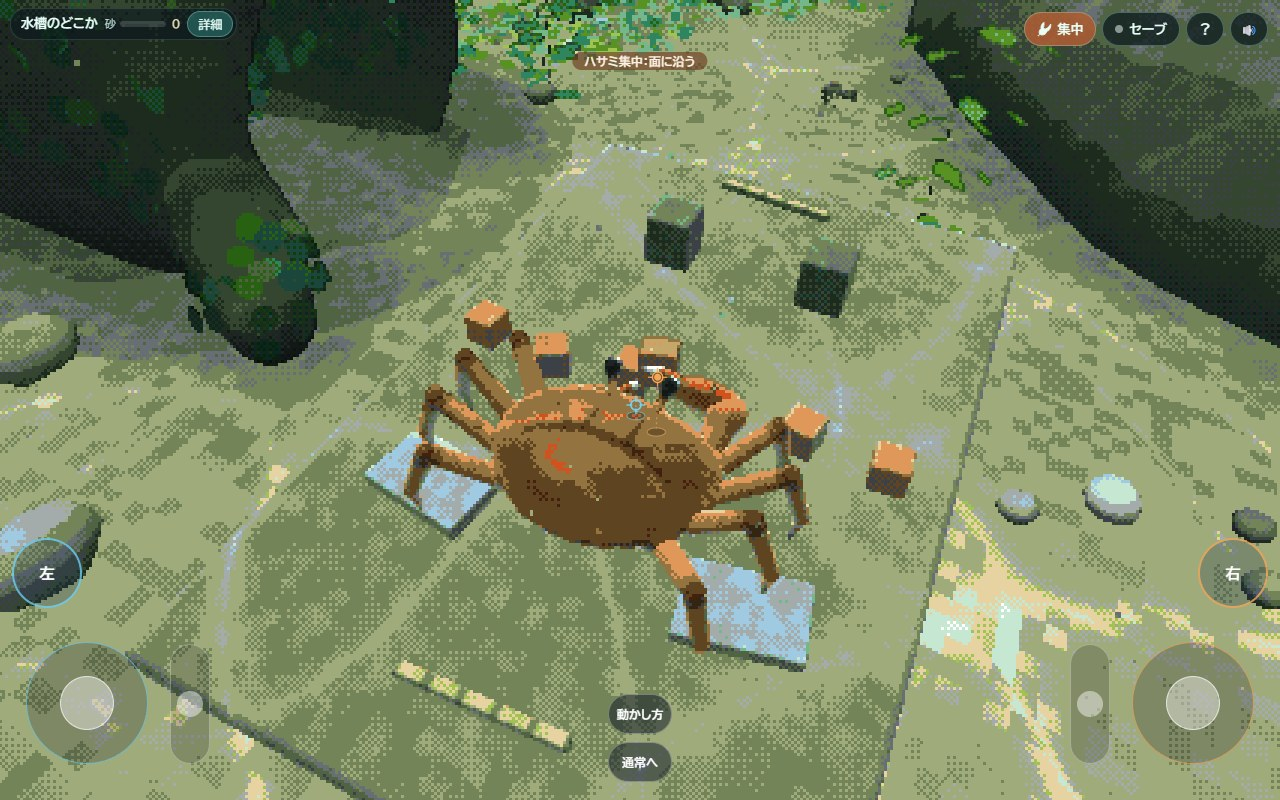
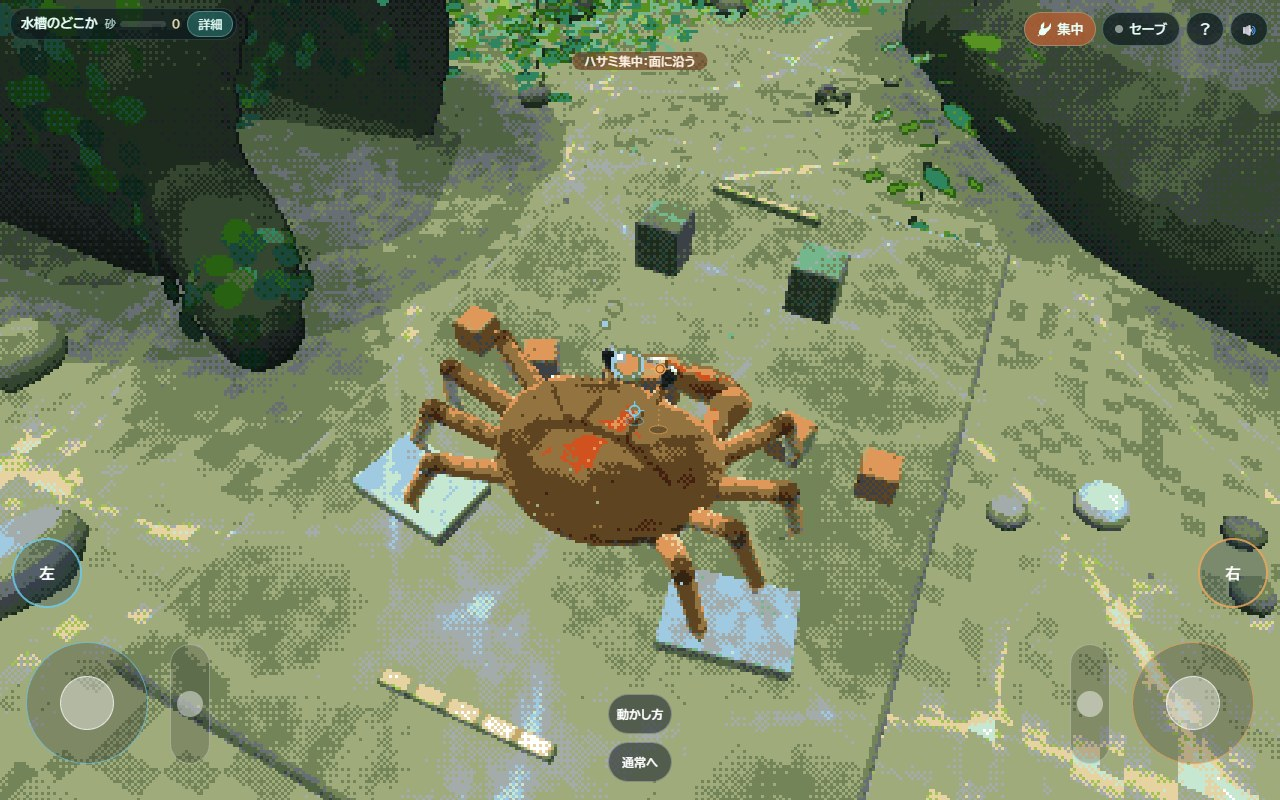
集中モード：自動で越えるのは地形の段だけ（積み木は押す・挟む）・カニが寄るときに積み木の列を体で押さない（横向きの分で寄る・平たい石は乗れる）・検証の更新

diff --git a/src/aquarium/main.ts b/src/aquarium/main.ts
@@ -1506,13 +1506,27 @@ async function boot() {
       // 切り替えた直後の移動の基準：倒したままなら前の視点の向き（離す・大きく倒し直すまで）
       // 集中モード：カニはその場に留まる（移動・走る・跳ぶ・掘るは使わない。物の反作用・水流では少し動く）
       // （腕を伸ばしきっても届かない向きへは、ゆっくり寄る：AquaClawFocus.bodyMove。世界の向き → スティックの向き）
-      const bm = focus.bodyMove, bml = Math.hypot(bm[0], bm[1]), cyaw = camera.yaw;
+      let bm: readonly number[] = focus.bodyMove, bml = Math.hypot(bm[0], bm[1]);
+      const cyaw = camera.yaw;
       // （寄る先に物・箱・岩があれば寄らない：積んだ物へ体をぶつけて崩さない）
       // （今いる所より近くに面がある＝寄る先に何か立っている。乗っている床・石の床そのものは止めない：体の中心から床までは
       //   ちょうど体の半径なので、半径との比べだけでは、石の床の上では一度も寄れなかった）
       const here = bml > 1e-4 ? world.contactSolid(crab.x, crab.y + crab.radius, crab.z) : 1;
-      const ahead = bml > 1e-4 ? world.contactSolid(crab.x + (bm[0] / bml) * 0.14, crab.y + crab.radius, crab.z + (bm[1] / bml) * 0.14) : 1;
-      const shuffle = inFocus && bml > 0.03 && ahead > Math.min(crab.radius + 0.03, here - 0.02);
+      // （動かせる箱は、体の球を寄る向きへ 8 cm 進めた所で測る：下の地形の測り方は体の中心の高さ・14 cm 先なので、低い積み木の列を
+      //   見落として、体で押しのけていた）
+      const clear = (dx: number, dz: number, l: number) =>
+        world.contactSolid(crab.x + (dx / l) * 0.14, crab.y + crab.radius, crab.z + (dz / l) * 0.14) > Math.min(crab.radius + 0.03, here - 0.02) &&
+        props.movableDist(crab.x + (dx / l) * 0.08, crab.y + crab.radius, crab.z + (dz / l) * 0.08, crab.y + 0.06) > crab.radius + 0.03;
+      let shuffle = inFocus && bml > 0.03 && clear(bm[0], bm[1], bml);
+      // 寄る向きに物があれば、体の横向き（カニは横へ歩く）の分だけで寄る（前の積み木の列に体を当てずに、横の物へ腕を届かせる）
+      if (inFocus && bml > 0.03 && !shuffle) {
+        const sx = -Math.cos(crab.heading), sz = Math.sin(crab.heading), d = bm[0] * sx + bm[1] * sz;
+        if (Math.abs(d) > 0.03 && clear(sx * d, sz * d, Math.abs(d))) {
+          bm = [sx * d, sz * d];
+          bml = Math.abs(d);
+          shuffle = true;
+        }
+      }
       const mv = !inFocus ? input.moveAxis() : shuffle ? { x: bm[0] * Math.cos(cyaw) - bm[1] * Math.sin(cyaw), y: -bm[0] * Math.sin(cyaw) - bm[1] * Math.cos(cyaw) } : { x: 0, y: 0 };
       if (moveLatch && (Math.hypot(mv.x, mv.y) < 0.2 || Math.abs(Math.atan2(Math.sin(Math.atan2(mv.x, mv.y) - moveLatch.ang), Math.cos(Math.atan2(mv.x, mv.y) - moveLatch.ang))) > 1.0)) moveLatch = null;
       // 鋏が挟む方に使われている間は掘れない（掘るのも鋏を使うので）

diff --git a/src/aquarium/AquaGrab.ts b/src/aquarium/AquaGrab.ts
@@ -443,6 +443,25 @@ export class PropSystem {
   }
 
   /** 箱（積み木）までの距離（AquariumWorld.contactSolid が使う：カニ・小石・生き物が箱に乗る・ぶつかる）。exclude の箱は除く */
+  /**
+   * 動かせる箱だけへの距離（石の床は数えない）。ハサミ集中モードでカニが寄る先に積み木があるか。
+   * 上面が minTop より低い箱（平たい石・寝た棒：カニは上に乗る・またぐ。体で横から押さない）は数えない
+   */
+  movableDist(x: number, y: number, z: number, minTop = -Infinity): number {
+    let d = 1e3;
+    for (const b of this.boxes) {
+      if (b.fixed) continue;
+      const [qx, qy, qz, qw] = b.q;
+      const ext = Math.abs(2 * (qx * qy + qz * qw)) * b.semi[0] + Math.abs(1 - 2 * (qx * qx + qz * qz)) * b.semi[1] + Math.abs(2 * (qy * qz - qx * qw)) * b.semi[2];
+      if (b.p[1] + ext < minTop) continue;
+      const dx = x - b.p[0], dy = y - b.p[1], dz = z - b.p[2];
+      if (Math.hypot(dx, dy, dz) - b.rb * 1.75 > d) continue;
+      const l = qinv(b.q, dx, dy, dz, this.tmpL);
+      d = Math.min(d, boxSd(b.semi, l[0], l[1], l[2]));
+    }
+    return d;
+  }
+
   dist(x: number, y: number, z: number): number {
     if (x < this.bmin[0] - 0.5 || x > this.bmax[0] + 0.5 || y < this.bmin[1] - 0.5 || y > this.bmax[1] + 0.5 || z < this.bmin[2] - 0.5 || z > this.bmax[2] + 0.5) return 1e3;
     let d = 1e3;
@@ -490,6 +509,11 @@ export class PropSystem {
   }
 
   /** 真下へ探った最初の上面（地形・箱。skip の箱は除く：挟んでいる箱の上へ鋏が上っていかない） */
+  /** 地形（と動かない箱：石の床）だけの面の高さ。動かせる箱は数えない（ハサミ集中モードの段を越える判定） */
+  terrainBelow(x: number, yFrom: number, z: number): number {
+    return this.surfaceBelow(x, yFrom, z, this.boxes.filter((b) => !b.fixed));
+  }
+
   surfaceBelow(x: number, yFrom: number, z: number, skip: readonly (Prop | null)[]): number {
     const sk = skip.filter((p): p is Prop => !!p && p.box);
     const f = (py: number) => {

diff --git a/docs/aquarium/tools/claw_scheme_compare.js b/docs/aquarium/tools/claw_scheme_compare.js
@@ -52,7 +52,7 @@
    */
   const go = (s, x, z, o = {}) => {
     const T = S(s);
-    let f = 0, still = 0, last = [...T.p];
+    let f = 0, still = 0, boost = 0, best = Infinity;
     for (; f < (o.max ?? 400); f++) {
       const dx = x - T.p[0], dz = z - T.p[2], d = Math.hypot(dx, dz);
       let wantY = o.y;
@@ -72,6 +72,16 @@
       const k = Math.min(1, dl / 0.05) / m;
       const c = { mx: inp.mx * k, my: inp.my * k, lift: inp.lift * k };
       for (const key of ['mx', 'my', 'lift']) if (Math.abs(c[key]) < 0.04) c[key] = 0;
+      // 面に沿う：動かせる物（積み木など）の横で止まったら、人は高さを上げて越える（自動で越えるのは地形の段だけ）。
+      // 止まって 8 フレームで 0.5 秒上げる
+      if (F.scheme === 'surface' && o.y === undefined && still >= 8 && d > 1e-4 && floorAt(s, T.p[0] + (dx / d) * 0.03, T.p[1], T.p[2] + (dz / d) * 0.03) > T.floor + 0.02) boost = 30;
+      if (boost > 0) {
+        boost--;
+        c.lift = 1;
+      } else if (F.scheme === 'surface' && o.y === undefined && T.lift > 0.03 && still === 0) {
+        // （越えた後は、上げた分を下げて戻す：人も物を越えたら下げる）
+        c.lift = -1;
+      }
       X.ctl(s, c);
       X.run(1);
       // 記録
@@ -79,9 +89,12 @@
       stat.frames++;
       if (n >= 2) stat.axes2++;
       if (n >= 3) stat.axes3++;
-      const moved = Math.hypot(T.p[0] - last[0], T.p[1] - last[1], T.p[2] - last[2]);
-      last = [...T.p];
-      still = moved < 0.0003 && dl > 0.02 ? still + 1 : 0;
+      // 止まった = 行き先へ 0.5 mm も近づかないフレームが続く（物の面に沿って横へ少しずつ滑るのも止まった扱い）
+      const dNow = Math.hypot(x - T.p[0], z - T.p[2]);
+      if (dNow < best - 0.0005) {
+        best = dNow;
+        still = 0;
+      } else if (dl > 0.02) still++;
       if (still === 10) stat.stalls++;
       if (o.y === undefined && !G(s).holding) {
         // 鋏の先の、真下の面からの高さ（低すぎ = 当たる・高すぎ = 狙いにくい）

diff --git a/src/aquarium/AquaClawFocus.ts b/src/aquarium/AquaClawFocus.ts
@@ -297,10 +297,11 @@ export class ClawFocus {
     S.floor = floor;
     const hov = this.hover(G);
     if (this.scheme === 'surface') {
-      // 段を越える：物（積み木・石）の横に当たって止まったまま 0.3 秒押し続けたら、押している向きの少し先（3 cm）の面の上まで
-      // 上がって越える（真下の面だけを見ると、横から当たって止まったまま。近づいただけでは上がらない＝横から挟める）
+      // 段を越える：地形の段（岩・盛った砂・石の床の縁）の横に当たって止まったまま 0.3 秒押し続けたら、押している向きの少し先
+      // （3 cm）の面の上まで上がって越える（真下の面だけを見ると、横から当たって止まったまま。近づいただけでは上がらない）。
+      // 動かせる物（積み木・平たい石・棒・石の台）は越えない：押して動かす・横から挟む物なので（越えるときは高さを手で）
       let ahead = floor;
-      if (ml > 1e-5 && this.blockT[S.key] > 0.3) ahead = this.floorBelow([p[0] + (mx / ml) * 0.03, p[1], p[2] + (mz / ml) * 0.03], skip);
+      if (ml > 1e-5 && this.blockT[S.key] > 0.3) ahead = this.props.terrainBelow(p[0] + (mx / ml) * 0.03, p[1] + 0.05, p[2] + (mz / ml) * 0.03);
       // （先の面が 12 cm より高ければ壁：越えずに止まる。上がった高さは 0.25 秒保つ：段の縁の上で上下に揺れない）
       if (ahead > floor && ahead - floor < 0.12) {
         this.aheadF[S.key] = ahead;

diff --git a/docs/aquarium/tools/claw_focus_shots.js b/docs/aquarium/tools/claw_focus_shots.js
@@ -41,6 +41,9 @@ async (page) => {
   const placeClaw = (p, side, kind, k) => p.evaluate(([s, kd, i]) => {
     const X = window.__focus, A = window.__aqua, pr = X.blocks(kd)[i], c = A.crab;
     const at = () => { const dx = pr.p[0] - c.x, dz = pr.p[2] - c.z, l = Math.hypot(dx, dz) || 1; const off = Math.min(pr.semi[0], pr.semi[2]) + 0.015; return [pr.p[0] - (dx / l) * off, 0, pr.p[2] - (dz / l) * off]; };
+    // （近づく前に、手で足した高さを挟む高さ（0.02）へ戻す：上げたままだと積み木の角の上で止まる。人も下げてから寄せる）
+    const T = s === 'R' ? A.focus.R : A.focus.L;
+    if (Math.abs(T.lift - 0.02) > 0.005) X.lift(s, 0.02 - T.lift, 90);
     const r = X.moveTo(s, at, { tol: 0.02, max: 300 });
     X.release();
     A.freeze = false;

diff --git a/docs/aquarium/claw-focus/report.md b/docs/aquarium/claw-focus/report.md
@@ -38,7 +38,9 @@
 | 腕の動かし方 | <kbd>M</kbd> | Y / △ | 「動かし方」 |
 | 食べる | — | X / □ | — |
 
-- カニはその場に留まる（腕を伸ばしきっても届かない向きへ押し続けたときだけ、少しずつ寄る。寄る先に物があれば寄らない）。
+- カニはその場に留まる（腕を伸ばしきっても届かない向きへ押し続けたときだけ、少しずつ寄る。寄る先に積み木・岩があれば、
+  体の横向きの分だけで寄る（カニは横へ歩く）。それでも当たるなら寄らない。平たい石・寝た棒は上に乗れるので妨げにしない）。
+  このとき、もう片方の鋏も体といっしょに動く（体から見た位置は変わらない）。
 - 腕の移動と開閉は別の入力。左右の腕・左右の開閉もそれぞれ独立（4 つを同時に操作できる）。
 - 切り替えても挟んでいる物は落とさない（押し直すまで持ったまま）。切り替えた直後の「何も押していない」で離さない。
 - 戻るときは、入る前のカメラの距離・角度へ戻す。腕は約 0.25 秒でいつもの構えへ戻る（瞬間移動しない）。
@@ -53,23 +55,24 @@
 
 | 方式 | スティック | 高さ |
 | --- | --- | --- |
-| **面に沿う（既定）** | カメラから見た床の前後左右 | 鋏の下の面（地形・箱。挟んだ物の下の広がりも見る）の上に自動で保つ。物の横に当たって押し続けると（0.3 秒）越える。手で足した高さ（つまみ・Q / E・バンパー）も使える |
+| **面に沿う（既定）** | カメラから見た床の前後左右 | 鋏の下の面（地形・箱。挟んだ物の下の広がりも見る）の上に自動で保つ。地形の段（岩・盛った砂・石の床の縁。12 cm まで）の横に当たって押し続けると（0.3 秒）越える。動かせる物（積み木など）は越えない（押して動かす・横から挟むため。越えるときは手で高さを上げる）。手で足した高さ（つまみ・Q / E・バンパー）も使える |
 | 床に沿う＋高さ | 同じ | 手で上げ下げするだけ（面より下へは行かない） |
 | 画面に沿う | 画面の上下左右 | 奥行きを手で（同じ入力） |
 
 同じ課題を、人の代わりの操作（行きたい点への差をその方式の入力へ直す。床に沿う・画面に沿うでは、進む先 6 cm の面を見て先に上げる
-上手な人を想定）で比べた。数字は 60 フレーム = 1 秒。「3 軸」は前後・左右・高さの 3 つの入力を同時に使ったフレーム数（多いほど
-人には難しい）。
+上手な人を想定。面に沿うでは、積み木の横で止まったら高さを上げ、越えたら下げる人を想定）で比べた。数字は 60 フレーム = 1 秒。
+「3 軸」は前後・左右・高さの 3 つの入力を同時に使ったフレーム数（多いほど人には難しい）。
 
 | 課題 | 面に沿う | 床に沿う＋高さ | 画面に沿う |
 | --- | --- | --- | --- |
-| 積み木 1 個を越えて向こうの床へ | ✅ 1.07 秒・3 軸 0 | ✅ 2.10 秒・3 軸 95 | ✅ 2.32 秒・3 軸 96 |
-| 積み木を挟んで隣の積み木の上へ置く | ✅ 23.0 秒・3 軸 195 | ✅ 21.9 秒・3 軸 1036 | ✅ 22.0 秒・3 軸 1028 |
-| 左右の鋏で床の 8 点を順に触る | ✅ 4.15 秒・3 軸 0 | ✅ 9.38 秒・3 軸 419 | ✅ 10.47 秒・3 軸 476 |
-| 移動中の面からの高さ（平均 / 最大） | 5.5 / 13.9 cm | 5.9 / 24 cm | 6.3 / 24.5 cm |
+| 積み木 1 個を越えて向こうの床へ | ✅ 1.43 秒・3 軸 43 | ✅ 2.08 秒・3 軸 94 | ✅ 2.32 秒・3 軸 96 |
+| 積み木を挟んで隣の積み木の上へ置く | ✅ 22.8 秒・3 軸 174 | ✅ 21.9 秒・3 軸 1037 | ✅ 22.0 秒・3 軸 1029 |
+| 左右の鋏で床の 8 点を順に触る（1 点は積み木の上） | ✅ 7.53 秒・3 軸 152 | ✅ 9.27 秒・3 軸 417 | ✅ 10.38 秒・3 軸 478 |
 
-- 置く課題は 3 方式とも 22 秒前後（細かい位置合わせの時間が大半）。**面に沿う**は高さを自動で保つので 3 軸の操作が約 1/5、
-  越える・触るは約 2 倍速い。床に沿う・画面に沿うは、入ったときの構えの高さ（地面から 24 cm）から下ろす手間がある。
+- 置く課題は 3 方式とも 22 秒前後（細かい位置合わせの時間が大半）。**面に沿う**は高さを自動で保つので 3 軸の操作が約 1/6、
+  越える・触るも速い。床に沿う・画面に沿うは、入ったときの構えの高さ（地面から 24 cm）から下ろす手間がある。
+- 最初の版の面に沿うは、積み木の横に当たって押し続けると自動で越えていた（越える課題 1.07 秒・3 軸 0）。ただしこれでは
+  開いた鋏で積み木を押して動かす・横から押し当てて挟む、ができなくなったので、自動で越えるのは地形の段だけにした。
 - 画面に沿うは、スティックの上下が「高さと奥行きの混ざった向き」になり、狙った所へ行くのに 3 つを同時に合わせる必要がある。
 - 既定は**面に沿う**。設定（「🔊」の欄）・「動かし方」ボタン・<kbd>M</kbd>・Y / △ でいつでも切り替えて比べられる（選んだ方式は保存）。
 
@@ -130,8 +133,8 @@
 
 | 端末 | 確かめたこと | 結果 |
 | --- | --- | --- |
-| PC | <kbd>D</kbd> → 左の腕だけ 7.5 cm・マウス → 右だけ 9 cm（左 0.6 mm）。左 Shift → 左だけ閉じる・左クリック → 右だけ閉じて積み木を挟む。E で左が 11.6 cm 上がる・右ドラッグで右が 6.6 cm 上がる・中ボタンで視点 | すべて期待どおり。エラー 0 |
-| PC | 挟んで 7.4 cm 持ち上げて離す → <kbd>Tab</kbd> で通常へ → <kbd>Q</kbd> で左が小石を挟む | ✅ |
+| PC | <kbd>D</kbd> 0.5 秒 → 左の腕 10 cm（右は 3 cm：左の腕が届く限りまで伸びてカニが寄った分。体から見た右の位置は変わらない）・マウス → 右 12 cm。左 Shift → 左だけ閉じる・左クリック → 右だけ閉じる。E で左が 11 cm 上がる・右ドラッグで右が 6.6 cm 上がる・中ボタンで視点 | すべて期待どおり。エラー 0 |
+| PC | 左クリックで積み木を挟み、右ドラッグで 17 cm 持ち上げて離す → <kbd>Tab</kbd> で通常へ → <kbd>Q</kbd> で左が小石を挟む | ✅ |
 | パッド | 同時押しで集中・左スティックで左だけ・RB + スティックで 9.9 cm 上げる | ✅ |
 | パッド | RT 0.3 / 0.6 / 0.8 / 1.0 / 0.75 → 閉じ具合 0.3 / 挟む・握る 0.14 / 0.57 / 1 / 0.46。デジタルのトリガー（0 か 1）でも握る 1 | ✅ |
 | スマホ縦・横 | 4 本の指（両方のスティック + 両方の閉じる）を同時に：4 つとも効く・離すと全部 0。高さのつまみ・たたいて切り替える方式・「通常へ」 | ✅（縦 390×844・横 844×390） |
@@ -159,6 +162,16 @@
 | 開く幅 | 物の厚みに合わせて開く（積み木は大きく、棒は小さく）。閉じ具合が触れた所 c0 で止まる |
 | つかみ点 | 物の表面の、鋏の口に近い点（鋏の先が物の中に入らない） |
 | 瞬間移動しない | 鋏の目標は速さの上限（2.4 m/s）つきで追う。狙いの補助で鋏の先が動く速さの最大 2.6〜3.0 m/s（カニの向き直りを含む。1 フレーム 5 cm 以下） |
+
+### 検証の途中で見つけて直した不具合
+
+| 不具合 | 直し方 |
+| --- | --- |
+| 集中モードから戻るとき、いつもの構えへ戻る鋏の先が、横の積み木を約 1.2 m/s で払い飛ばした | 鋏の先で物を押すのは、集中モードに入り切っている間（`focus.on` かつ重み 0.95 超）だけ |
+| 石の床（検証エリア）の上では、腕が届かない向きへ押してもカニが一度も寄らなかった（寄る先の確かめが、乗っている床を障害と見ていた） | 今いる所の面までの距離と比べる |
+| 直した後、寄るカニの体が低い積み木の列を見落として押しのけた | 動かせる箱は体の球を 8 cm 進めた所で測る。前が塞がっていれば横向きの分だけで寄る。平たい石・寝た棒は数えない |
+| 検証エリアの出発点で、カニの横の平たい石 2 枚が毎フレーム起きて重かった | 箱は面までの距離で起こす（6 章） |
+| 集中モードの知らせが「通常へ」のボタンを隠した（PC・横長） | 集中モードの間は知らせをボタンの上へ |
 
 ## 6. 性能（`claw_focus_perf.js`。1 フレームの処理の時間 / 実際のフレームの間隔の平均）
 
